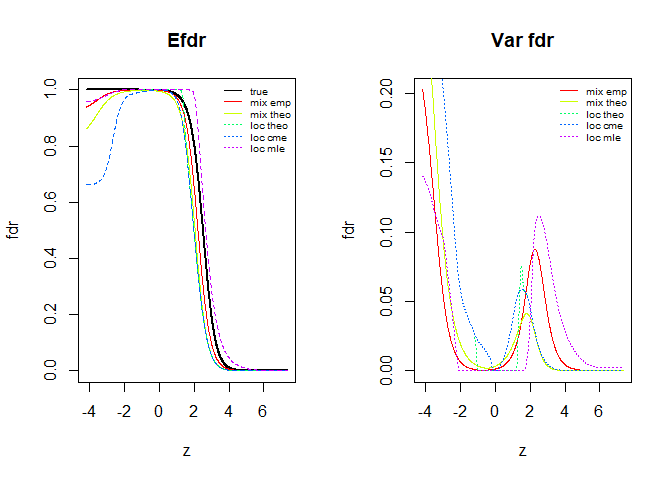
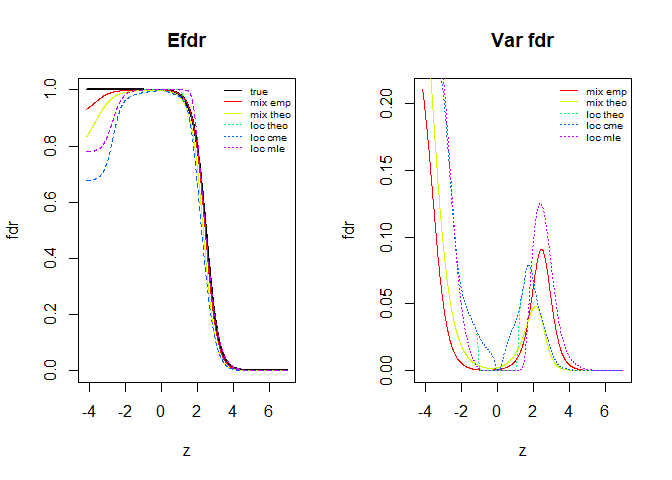
final sumbit readme

diff --git a/README.md b/README.md
@@ -9,9 +9,9 @@
 
 The project `mix-fdr` is the final project of MATH 5472. It aims to
 investigate mixfdr, an empirical Bayes method for estimating fdr and
-effect size simultaneouly purposed by this paper: Omkar Muralidharan. An
-empirical bayes mixture method for effect size and false discovery rate
-estimation. Ann. Appl. Stat. 2010.
+effect size simultaneouly purposed by this paper: *Omkar Muralidharan.
+An empirical bayes mixture method for effect size and false discovery
+rate estimation. Ann. Appl. Stat. 2010.*
 
 ## Enviromnent
 
@@ -26,27 +26,32 @@ sessionInfo()
 #> Matrix products: default
 #> 
 #> locale:
-#> [1] LC_COLLATE=Chinese (Simplified)_China.936  LC_CTYPE=Chinese (Simplified)_China.936    LC_MONETARY=Chinese (Simplified)_China.936
-#> [4] LC_NUMERIC=C                               LC_TIME=Chinese (Simplified)_China.936    
+#> [1] LC_COLLATE=Chinese (Simplified)_China.936 
+#> [2] LC_CTYPE=Chinese (Simplified)_China.936   
+#> [3] LC_MONETARY=Chinese (Simplified)_China.936
+#> [4] LC_NUMERIC=C                              
+#> [5] LC_TIME=Chinese (Simplified)_China.936    
 #> 
 #> attached base packages:
 #> [1] stats     graphics  grDevices utils     datasets  methods   base     
 #> 
-#> other attached packages:
-#> [1] locfdr_1.1-8
-#> 
 #> loaded via a namespace (and not attached):
-#>  [1] compiler_4.0.2  magrittr_1.5    htmltools_0.5.0 tools_4.0.2     yaml_2.2.1      splines_4.0.2   stringi_1.5.3   rmarkdown_2.3  
-#>  [9] knitr_1.29      stringr_1.4.0   xfun_0.17       digest_0.6.25   rlang_0.4.7     evaluate_0.14
+#>  [1] compiler_4.0.2  magrittr_1.5    tools_4.0.2     htmltools_0.5.0
+#>  [5] yaml_2.2.1      stringi_1.5.3   rmarkdown_2.3   knitr_1.29     
+#>  [9] stringr_1.4.0   xfun_0.17       digest_0.6.25   rlang_0.4.7    
+#> [13] evaluate_0.14
 ```
 
-To run the simulation code, we first need the following the packages
-that provide various empirical Bayes method.
+To run the simulation code, we first need the following packages that
+provide various empirical Bayes method.
 
 ``` r
 install.packages("locfdr")
 install.packages("EBayesThresh")
 ```
+
+Package `spline` may also need to be loaded before running the
+simulation code.
 
 ## Content of codes
 
@@ -75,7 +80,7 @@ the `sim_fdr.R`
 
   - `N_null = 50` : the original setting in the paper, corresponds to
     figure 2
-  - `N_null = 200` : the dense setting on effect size, correspondd to
+  - `N_null = 100` : the dense setting on effect size, correspondd to
     figure 3
 
 Then source the script. A small example is that when we set the follwing
@@ -84,7 +89,7 @@ parameters in the code
 ``` r
 n_rep = 100
 N = 1000
-N_null = 200
+N_null = 100
 J = 3
 ```
 
